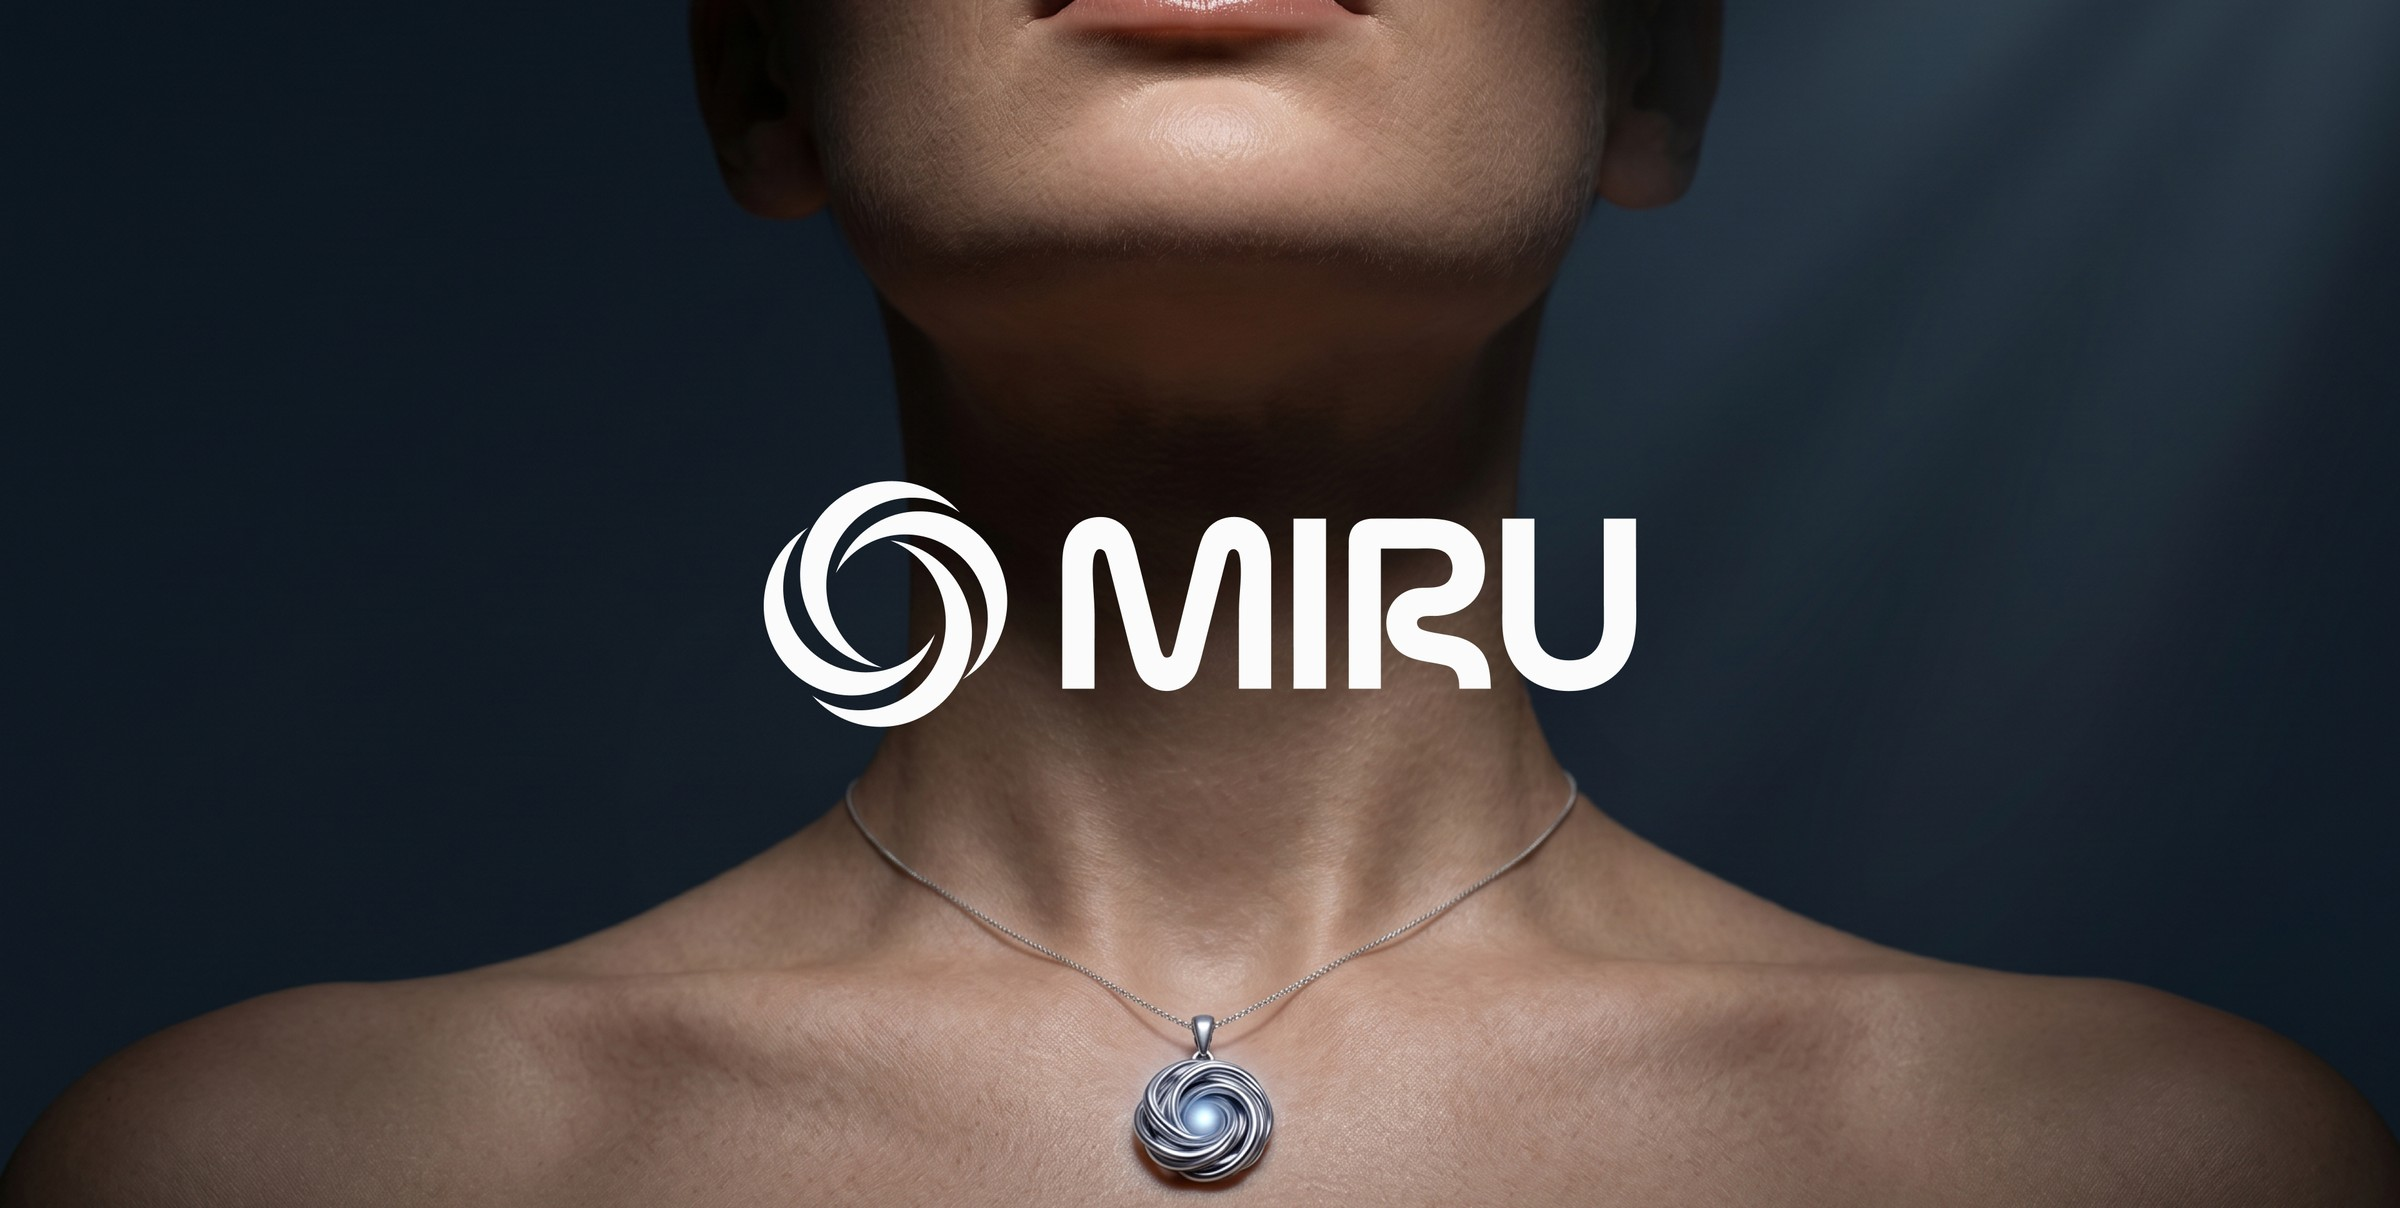
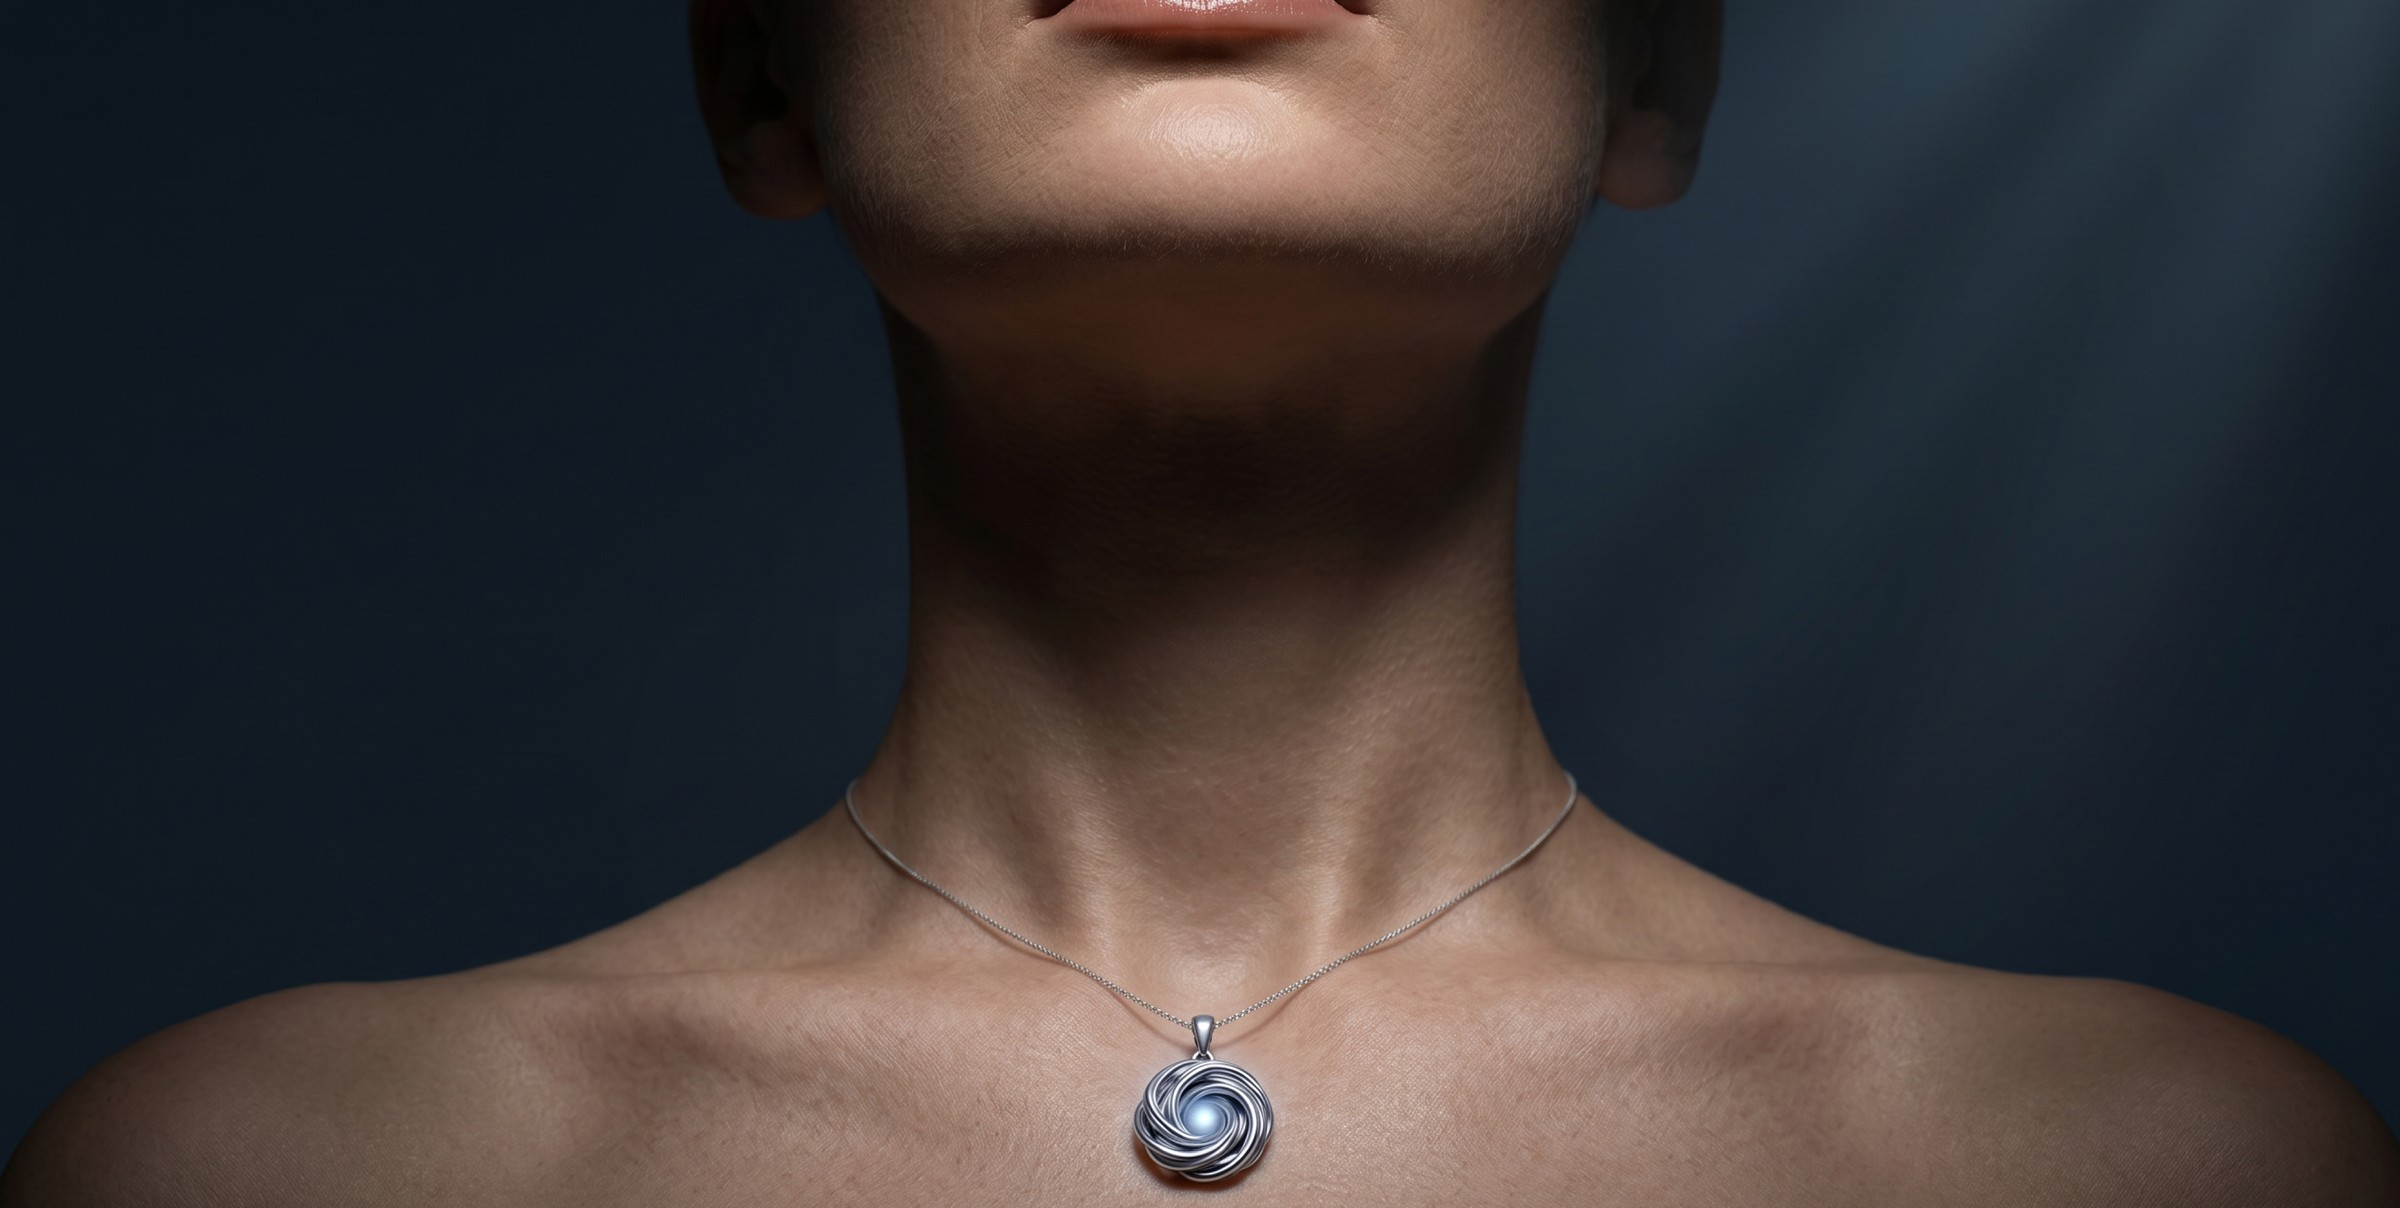
Miru: логотип собран слоями — вращающийся знак + статичное слово на чистом фото (Figma 3557-394)

Changed region(s): [[0.3125, 0.3982, 0.6875, 0.6126]]

diff --git a/styles.css b/styles.css
@@ -1719,16 +1719,31 @@ textarea:focus-visible {
   overflow: hidden;
 }
 .mlogo__screen { display: block; width: 100%; height: auto; }
-/* знак — вращение по часовой стрелке вокруг центра, в зазоре слева от «MIRU» */
-.mlogo__mark {
+/* логотип (знак + слово) поверх фото, по центру; группа = 36.26% ширины кадра */
+.mlogo__logo {
   position: absolute;
-  left: 22.25%; top: 36.16%; width: 15.47%; height: 27.63%;
+  left: 50%; top: 50%;
+  transform: translate(-50%, -50%);
+  width: 36.26%;
+  display: flex;
+  align-items: center;
+}
+/* знак MIRU — вращение вокруг своей оси (195/698 ширины группы) */
+.mlogo__sign {
+  width: 27.94%;
+  height: auto;
   transform-origin: 50% 50%;
-  animation: mlogo-spin 14s linear infinite;
+  animation: mlogo-spin 16s linear infinite;
   will-change: transform;
 }
+/* слово MIRU — статично (459/698), зазор от знака 44/698 */
+.mlogo__word {
+  width: 65.76%;
+  height: auto;
+  margin-left: 6.3%;
+}
 @keyframes mlogo-spin { from { transform: rotate(0); } to { transform: rotate(360deg); } }
-@media (prefers-reduced-motion: reduce) { .mlogo__mark { animation: none; } }
+@media (prefers-reduced-motion: reduce) { .mlogo__sign { animation: none; } }
 
 /* ===== Miru: веер постов — при наведении плавно раскладывается в ряд ===== */
 .fan {

diff --git a/case.html b/case.html
@@ -12,7 +12,7 @@
   <link href="https://fonts.googleapis.com/css2?family=Geist:wght@400..700&family=Geist+Mono:wght@400;500&display=swap" rel="stylesheet" />
   <!-- Шрифты страницы кейса — как в референсе pamidordesign.co/work/rise -->
   <link href="https://fonts.googleapis.com/css2?family=Archivo:wght@500;600&family=Funnel+Display:wght@400;500;600&family=Space+Grotesk:wght@500;600;700&display=swap" rel="stylesheet" />
-  <link rel="stylesheet" href="styles.css?v=161" />
+  <link rel="stylesheet" href="styles.css?v=163" />
 </head>
 <body class="is-case">
   <a class="skip-link" href="#case-root">К содержанию</a>
@@ -47,7 +47,7 @@
 
   <script src="https://cdn.jsdelivr.net/npm/lenis@1.1.14/dist/lenis.min.js"></script>
   <script src="projects.js?v=127"></script>
-  <script src="case.js?v=64"></script>
+  <script src="case.js?v=66"></script>
   <script src="script.js?v=23"></script>
 </body>
 </html>

diff --git a/case.js b/case.js
@@ -567,8 +567,12 @@
             "</div>";
         if (b.mirulogo)
           return '<div class="mlogo reveal" role="img" aria-label="MIRU — эмпатия как украшение">' +
-            '<img class="mlogo__screen" src="assets/miru-hero.jpg?v=1" alt="MIRU — эмпатия как украшение" loading="eager" />' +
-            "</div>";
+            '<img class="mlogo__screen" src="assets/miru-hero.jpg?v=3" alt="" aria-hidden="true" loading="eager" />' +
+            '<div class="mlogo__logo">' +
+              '<img class="mlogo__sign" src="assets/miru-sign.png?v=2" alt="" aria-hidden="true" />' +
+              '<img class="mlogo__word" src="assets/miru-word.png?v=1" alt="MIRU" />' +
+            "</div>" +
+          "</div>";
         if (b.laptop) {
           var lp = b.laptop;
           var screenInner;
